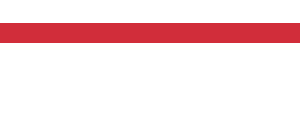
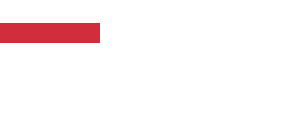
Iconos de estado
Se muestran iconos para el stun, el escudo y las alas.
Texto encima de la barra del portal.

Changed region(s): [[0.33, 0.1562, 1.0, 0.3438]]

diff --git a/src/managers/HUDManager.cpp b/src/managers/HUDManager.cpp
@@ -36,6 +36,9 @@ PlayerHUD::~PlayerHUD(){
     if  (mp     )   { delete mp;        mp = nullptr;       }
     if  (up     )   { delete up;        up = nullptr;       }
     if  (lives  )   { delete lives;     lives = nullptr;    }
+    if  (stun   )   { delete stun;      stun = nullptr;     }
+    if  (shield )   { delete shield;    shield = nullptr;   }
+    if  (wings  )   { delete wings;     wings = nullptr;    }
 }
 
 
@@ -71,8 +74,9 @@ HUDManager::~HUDManager(){
         if (m_playerHUDs[i])    { delete m_playerHUDs[i];   m_playerHUDs[i] = nullptr;  }
     }
 
-    if (m_ultimateBG)   { delete m_ultimateBG;  m_ultimateBG = nullptr; }
-    if (m_ultimateFG)   { delete m_ultimateFG;  m_ultimateFG = nullptr; }
+    if (m_ultimateBG)   { delete m_ultimateBG;      m_ultimateBG = nullptr;     }
+    if (m_ultimateFG)   { delete m_ultimateFG;      m_ultimateFG = nullptr;     }
+    if (m_ultimateText) { delete m_ultimateText;    m_ultimateText = nullptr;   }
 }
 
 //Initializes the HUD for a player
@@ -131,18 +135,29 @@ void HUDManager::initializePlayer(int p_index){
     t_playerHUD->lives->addTexture("assets/UI/HUD/Lives/6.png");
     t_playerHUD->lives->setTexture(t_lives);
 
+    //Tokens
+    t_playerHUD->stun   = m_engineManager->createHUD("assets/UI/HUD/Tokens/Stun_OFF.png", 32, 32, false);
+    t_playerHUD->shield = m_engineManager->createHUD("assets/UI/HUD/Tokens/Shield_OFF.png", 32, 32, false);
+    t_playerHUD->wings  = m_engineManager->createHUD("assets/UI/HUD/Tokens/Wings_OFF.png", 32, 32, false);
+
+    t_playerHUD->stun->addTexture("assets/UI/HUD/Tokens/Stun.png");
+    t_playerHUD->shield->addTexture("assets/UI/HUD/Tokens/Shield.png");
+    t_playerHUD->wings->addTexture("assets/UI/HUD/Tokens/Wings.png");
+
     //Placing
-    int t_x = -412 + (610 * p_index);
+    int t_x = -462 + (675 * p_index);
     //int t_y = -258;
     int t_y = 354;
 
-    t_playerHUD->face->setAbsolutePosition(t_x, t_y, 1);
-    t_playerHUD->bg->setAbsolutePosition(t_x + 64, t_y, 1);
-    t_playerHUD->hp->setAbsolutePosition(t_x + 64, t_y, 2);
-    t_playerHUD->mp->setAbsolutePosition(t_x + 64, t_y, 3);
-    t_playerHUD->up->setAbsolutePosition(t_x + 64, t_y, 4);
-    t_playerHUD->lives->setAbsolutePosition(t_x + 64, t_y - 64, 1);
-
+    t_playerHUD->face->setAbsolutePosition(t_x + 35, t_y, 1);
+    t_playerHUD->bg->setAbsolutePosition(t_x + 99, t_y, 1);
+    t_playerHUD->hp->setAbsolutePosition(t_x + 99, t_y, 2);
+    t_playerHUD->mp->setAbsolutePosition(t_x + 99, t_y, 3);
+    t_playerHUD->up->setAbsolutePosition(t_x + 99, t_y, 4);
+    t_playerHUD->lives->setAbsolutePosition(t_x + 99, t_y - 64, 1);
+    t_playerHUD->stun->setAbsolutePosition(t_x, t_y, 1);
+    t_playerHUD->shield->setAbsolutePosition(t_x, t_y - 32, 1);
+    t_playerHUD->wings->setAbsolutePosition(t_x, t_y - 64, 1);
 
     //Scaling
     t_playerHUD->face->setAbsoluteScale(0.5, 0.5, 1);
@@ -159,14 +174,16 @@ void HUDManager::initializePlayer(int p_index){
 
 //Initializes the HUD for the Ultimate Bar
 void HUDManager::initializeUB(){
-    m_ultimateBG = m_engineManager->createHUD("assets/UI/HUD/Bars/UltiBG.png", 300, 20, false);
-    m_ultimateFG = m_engineManager->createHUD("assets/UI/HUD/Bars/UltiFG.png", 300, 20, false);
+    m_ultimateBG    = m_engineManager->createHUD("assets/UI/HUD/Bars/UltiBG.png", 300, 20, false);
+    m_ultimateFG    = m_engineManager->createHUD("assets/UI/HUD/Bars/UltiFG.png", 300, 20, false);
+    m_ultimateText  = m_engineManager->createHUD("assets/UI/HUD/Bars/PortalText.png", 300, 64, false);
 
     int t_x = -150;
     int t_y = 316;
 
     m_ultimateBG->setAbsolutePosition(t_x, t_y, 0);
     m_ultimateFG->setAbsolutePosition(t_x, t_y, 1);
+    m_ultimateText->setAbsolutePosition(t_x, t_y + 64, 2);
 
     m_ultimateCharge = 0;
     m_ultimateFG->setAbsoluteScale(0, 1, 1);
@@ -175,18 +192,19 @@ void HUDManager::initializeUB(){
 // Changes the HP of a player in the screen
 // Changes the color of the HP bar and the face of the character
 void HUDManager::setHP(int p_player, int p_HP, int p_maxHP){
-    m_playerHUDs[p_player]->hp->setAbsoluteScale(((float)(p_HP) / (float) p_maxHP) * 0.5, 0.5, 1);
-
-    //Low HP
-    if (p_HP <= (p_maxHP / 3)){
-        m_playerHUDs[p_player]->hp->setTexture(1);
-        m_playerHUDs[p_player]->face->setTexture(1);        
-    }
 
     //High HP
-    else{
+    if (p_HP >= (p_maxHP / 3)){
         m_playerHUDs[p_player]->hp->setTexture(0);
+        m_playerHUDs[p_player]->hp->setAbsoluteScale(((float)(p_HP) / (float) p_maxHP) * 0.5, 0.5, 1);
         m_playerHUDs[p_player]->face->setTexture(0);        
+    }
+
+    //Low HP
+    else{
+        m_playerHUDs[p_player]->hp->setTexture(1);
+        m_playerHUDs[p_player]->hp->setAbsoluteScale(((float)(p_HP * 3) / (float) p_maxHP) * 0.5, 0.5, 1);        
+        m_playerHUDs[p_player]->face->setTexture(1);        
     }
 }
 
@@ -223,10 +241,27 @@ void HUDManager::ultimateBlink(int p_player){
     m_playerHUDs[p_player]->up->setVisible(t_time % 2 == 0);
 }
 
+//Enables or disables the stun token in player HUD
+void HUDManager::setStun(int p_player, bool p_active){
+    m_playerHUDs[p_player]->stun->setTexture((int) p_active);
+}
+
+//Enables or disables the shield token in player HUD
+void HUDManager::setShield(int p_player, bool p_active){
+    m_playerHUDs[p_player]->shield->setTexture((int) p_active);
+}
+
+//Enables or disables the wings token in player HUD
+void HUDManager::setWings(int p_player, bool p_active){
+    m_playerHUDs[p_player]->wings->setTexture((int) p_active);
+}
+
+
 //Updates the UI
 void HUDManager::update(){
     m_ultimateBG->setVisible(m_arena->portalIsActive());
     m_ultimateFG->setVisible(m_arena->portalIsActive());
+    m_ultimateText->setVisible(m_arena->portalIsActive());
 
     for (int i = 0; i < 2; i++){
         if (m_playerHUDs[i]->ultimateON){

diff --git a/src/entities/characters/Character.cpp b/src/entities/characters/Character.cpp
@@ -188,8 +188,10 @@ void Character::changeHP(int p_variation){
     if(m_HP > m_maxHP)
         m_HP = m_maxHP;
 
-    if(m_stunned)
+    if(m_stunned){
         m_stunned = false;
+        m_HUDManager->setStun(m_playerIndex, false);
+    }
 
     std::cout << "HP: " << m_HP << std::endl;
 
@@ -229,6 +231,7 @@ bool Character::useMP(int p_MP){
 void Character::shield(){
     m_shielded = true;
     m_shieldTime = m_inputManager->getMasterClock() + m_shieldDuration;
+    m_HUDManager->setShield(m_playerIndex, true);
 }
 
 //Activates wings, if not already active
@@ -236,6 +239,7 @@ void Character::wings(){
     if(!m_winged){
         m_runningFactor = 1.5f;
         m_winged = true;
+        m_HUDManager->setWings(m_playerIndex, true);
     }
 
     m_wingsTime = m_inputManager->getMasterClock() + m_wingsDuration;
@@ -245,6 +249,7 @@ void Character::removeWings(){
     if(m_winged){
         m_runningFactor = 1.0f;
         m_winged = false;
+        m_HUDManager->setWings(m_playerIndex, false);
     }
 }
 
@@ -261,6 +266,9 @@ void Character::die(){
     m_knockback = false;
     m_stunned   = false;
     m_shielded = false;
+
+    m_HUDManager->setStun(m_playerIndex, false);
+    m_HUDManager->setShield(m_playerIndex, false);
 
     deathSound();
     removeWings();
@@ -363,12 +371,15 @@ void Character::update(){
     if(m_winged && t_currentTime >= m_wingsTime)
         removeWings();
 
-    if(m_shielded && t_currentTime >= m_shieldTime)
+    if(m_shielded && t_currentTime >= m_shieldTime){
         m_shielded = false;
+        m_HUDManager->setShield(m_playerIndex, false);
+    }
 
     if(m_stunned && t_currentTime > m_stunTime){
         m_stunDuration = 1.0;
         m_stunned      = false;
+        m_HUDManager->setStun(m_playerIndex, false);
     }    
     else
         doActions();
@@ -437,6 +448,8 @@ void Character::setStunned(float p_time){
         m_stunDuration = m_stunDuration/2;
     
     m_stunned = true;
+    m_HUDManager->setStun(m_playerIndex, true);
+
     m_stunTime = m_inputManager->getMasterClock() + m_stunDuration;
 }
 

diff --git a/src/include/managers/HUDManager.hpp b/src/include/managers/HUDManager.hpp
@@ -35,6 +35,10 @@ struct PlayerHUD{
     CESceneSprite*  up;
     CESceneSprite*  lives;
 
+    CESceneSprite*  stun;
+    CESceneSprite*  shield;
+    CESceneSprite*  wings;
+
     bool            ultimateON;
 
     ~PlayerHUD();
@@ -50,6 +54,7 @@ class HUDManager{
         PlayerHUD*      m_playerHUDs[2];
         CESceneSprite*  m_ultimateBG;
         CESceneSprite*  m_ultimateFG;
+        CESceneSprite*  m_ultimateText;
         float           m_ultimateCharge;
 
         HUDManager();
@@ -69,6 +74,9 @@ class HUDManager{
         void setLives(int p_player, int p_lives);
         void fillUB(float p_delta);
         void setUltimate(int p_player, bool p_active);
+        void setStun(int p_player, bool p_active);
+        void setShield(int p_player, bool p_active);
+        void setWings(int p_player, bool p_active);
 
         void update();
         void render();
